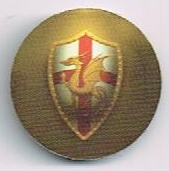
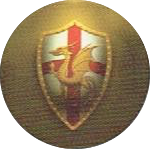
display update so quest token is sized correctly. Also deleted jpg files

diff --git a/browser/lobby/components/RoundDisplay.js b/browser/lobby/components/RoundDisplay.js
@@ -4,6 +4,7 @@ const RoundDisplay = ({ roundInfo }) => (
   <div className="flex-item round-display">
     {roundInfo === 'pass' ? <img className="round-display-token" src="/quest_success_token.png" alt="quest_success" /> : null}
     {roundInfo === 'fail' ? <img className="round-display-token" src="/quest_fail_token.png" alt="quest_success" /> : null}
+    {roundInfo === 'current' ? <img className="round-display-current" src="/quest_counter.png" alt="quest_counter" /> : null}
   </div>
  /* + roundInfo === 'pass' ? 'round-pass' : roundInfo === 'fail' ? 'round-fail' : '' */
 );

diff --git a/server/public/styles.css b/server/public/styles.css
@@ -207,13 +207,21 @@ input[type='checkbox']:checked {
 .round-display {
   height: 100%;
   width: 20%;
+  border: 2px solid black;
 }
 
 .round-display-token {
   position: relative;
-  left: 33%;
+  top: 20%;
+  width: 90%;
+  height: auto;
+}
+
+.round-display-current {
+  position: relative;
+  left: 40%;
   top: 61%;
-  width: 38%;
+  width: 40%;
   height: auto;
 }
 
@@ -234,10 +242,10 @@ input[type='checkbox']:checked {
 }
 
 .buffer-round-left {
-  width: 3%;
+  width: 2.4%;
 }
 .buffer-round-right {
-  width: 3.4%;
+  width: 5%;
 }
 
 .buffer-vote-left {

diff --git a/browser/lobby/containers/RoundDisplayContainer.js b/browser/lobby/containers/RoundDisplayContainer.js
@@ -10,6 +10,7 @@ class RoundDisplayContainer extends React.Component {
     const votes = [];
     for (let i = 0; i < 5; i++) {
       if (roundHistory && roundHistory[i]) votes.push(roundHistory[i][0]);
+      else if (i === roundHistory.length) votes.push('current');
       else votes.push('');
     }
     return (
